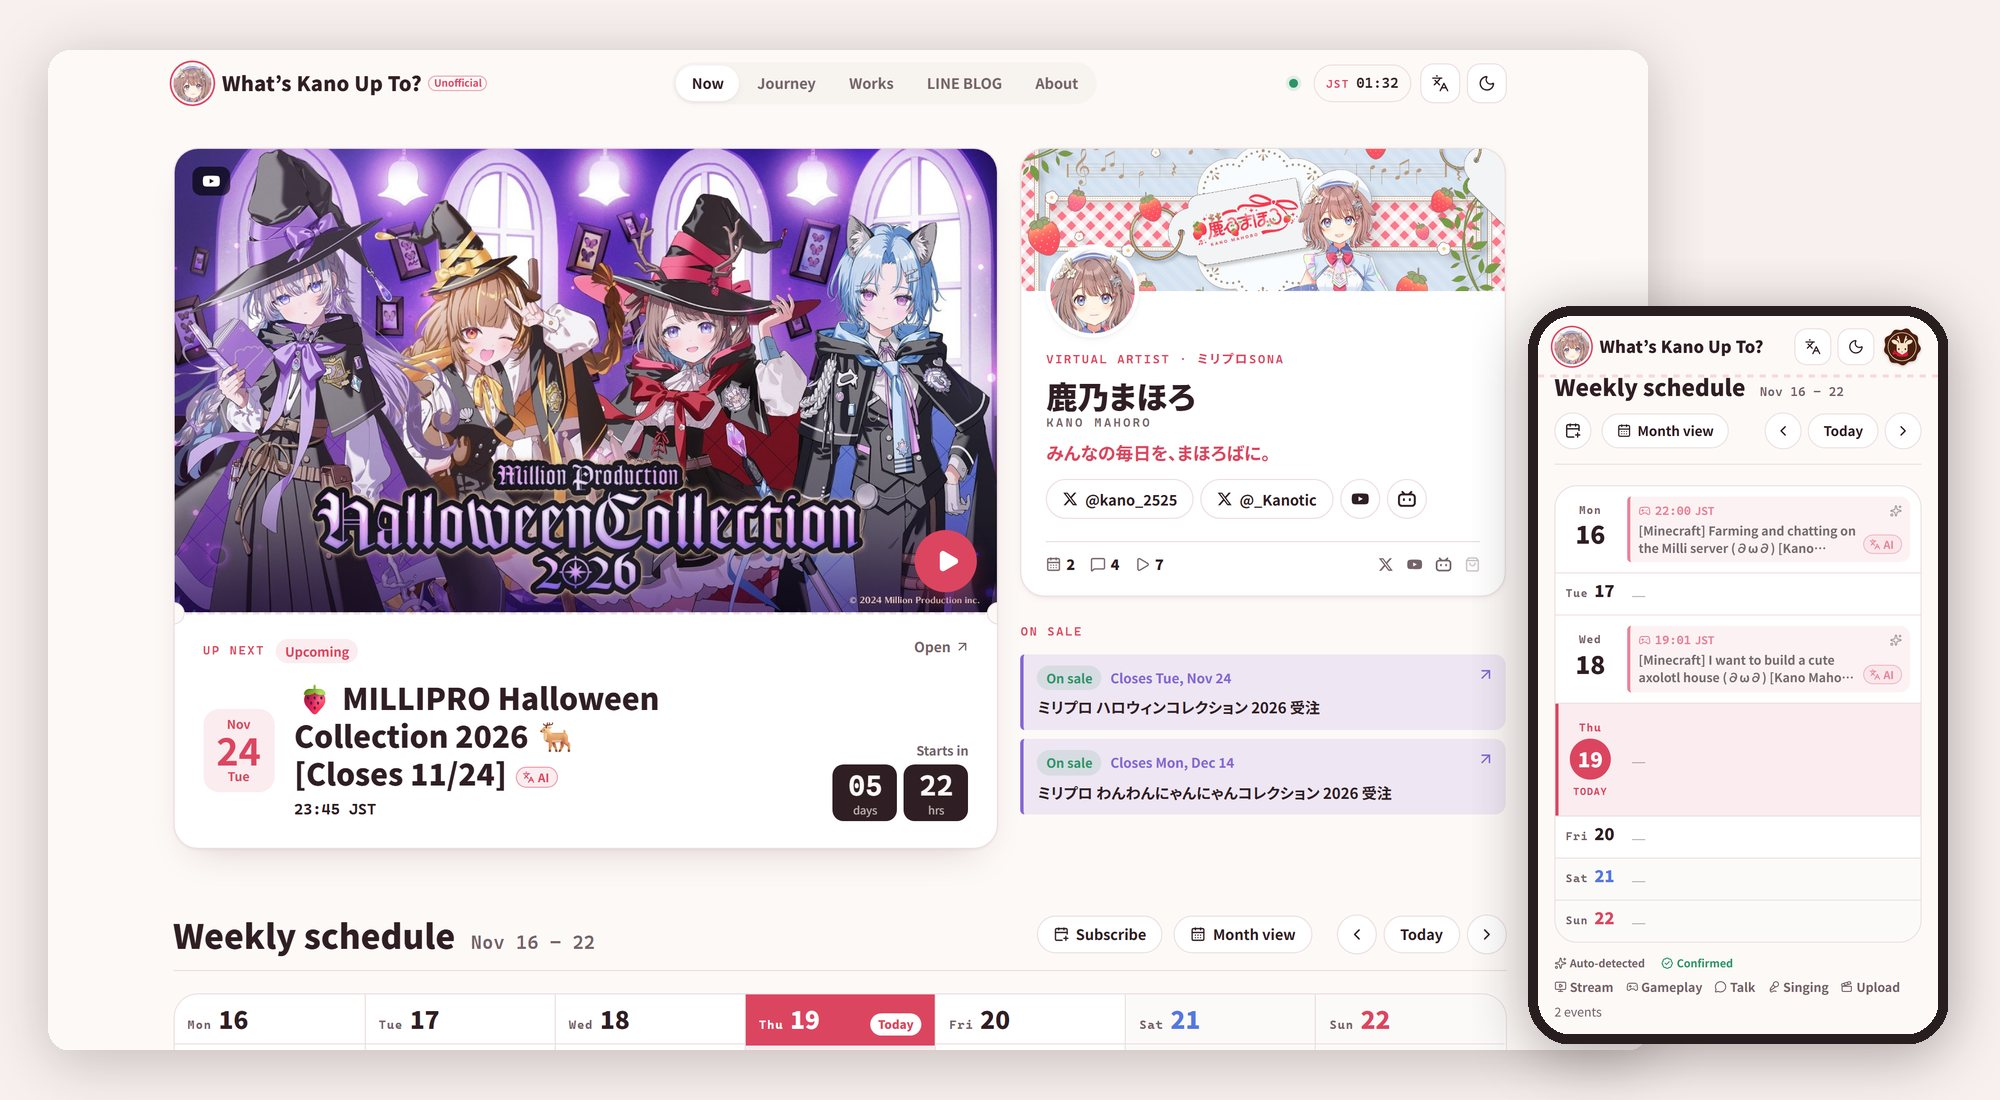
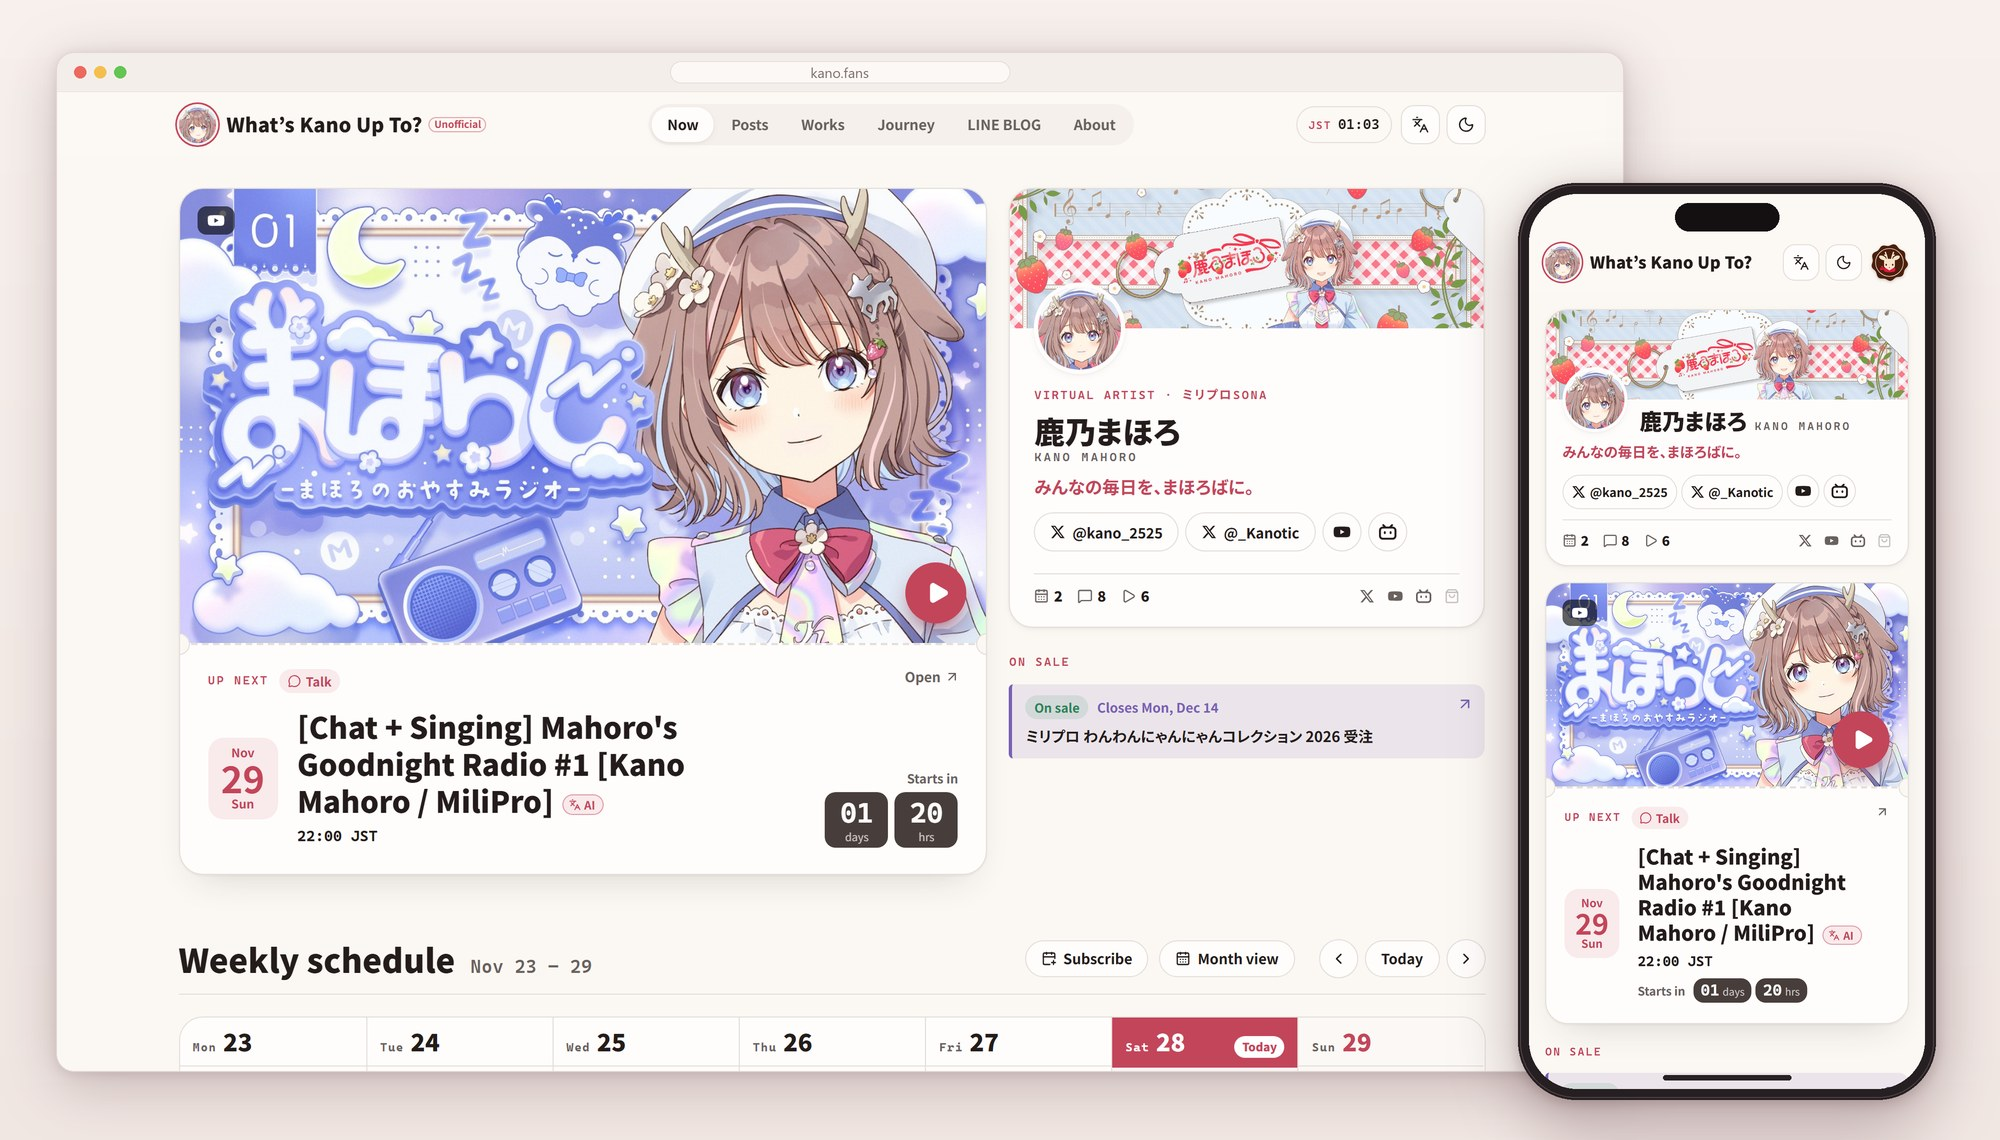
docs(readme): recapture the board on a desktop and a phone
Recompose the board screenshot with a slim phone frame that sits in the
desktop window's margin instead of covering the page, a light browser
bar on the desktop window, and the phone showing the top of the board.
The captions date the board capture November 28, 2026 (JST).

diff --git a/README.ja.md b/README.ja.md
@@ -25,7 +25,7 @@
 
 <p align="center">
   <a href="https://kano.fans/"><img src="docs/assets/readme/board.jpg" alt="デスクトップとスマートフォンでの表示例"></a><br>
-  <sub>ライトテーマの日本サーバーのスクリーンショット（2026年11月19日 JST 撮影）。</sub>
+  <sub>ライトテーマの日本サーバーのボード（2026年11月28日 JST 撮影）。</sub>
 </p>
 
 > [!NOTE]

diff --git a/README.zh-CN.md b/README.zh-CN.md
@@ -25,7 +25,7 @@
 
 <p align="center">
   <a href="https://kano.fans/"><img src="docs/assets/readme/board.jpg" alt="桌面端与手机端展示效果"></a><br>
-  <sub>日本服务器浅色主题截图，拍摄于 2026 年 11 月 19 日（日本时间）。</sub>
+  <sub>日本服务器浅色主题的看板，拍摄于 2026 年 11 月 28 日（日本时间）。</sub>
 </p>
 
 > [!NOTE]

diff --git a/README.md b/README.md
@@ -25,7 +25,7 @@
 
 <p align="center">
   <a href="https://kano.fans/"><img src="docs/assets/readme/board.jpg" alt="The board on a desktop and a phone"></a><br>
-  <sub>Screenshots of the Japan Server in the light theme, captured on November 19, 2026 (JST).</sub>
+  <sub>The board on the Japan Server in the light theme, captured on November 28, 2026 (JST).</sub>
 </p>
 
 > [!NOTE]
